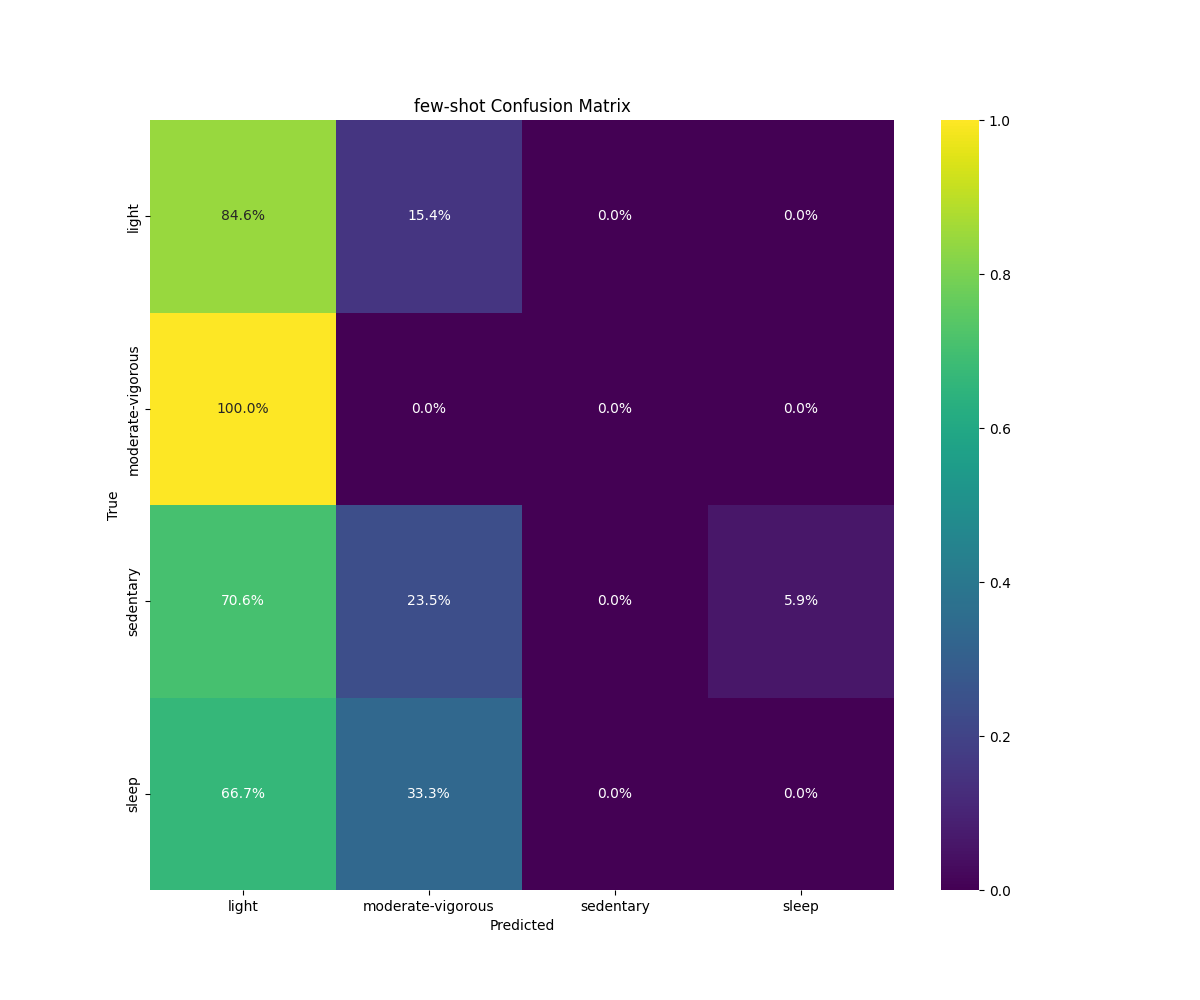
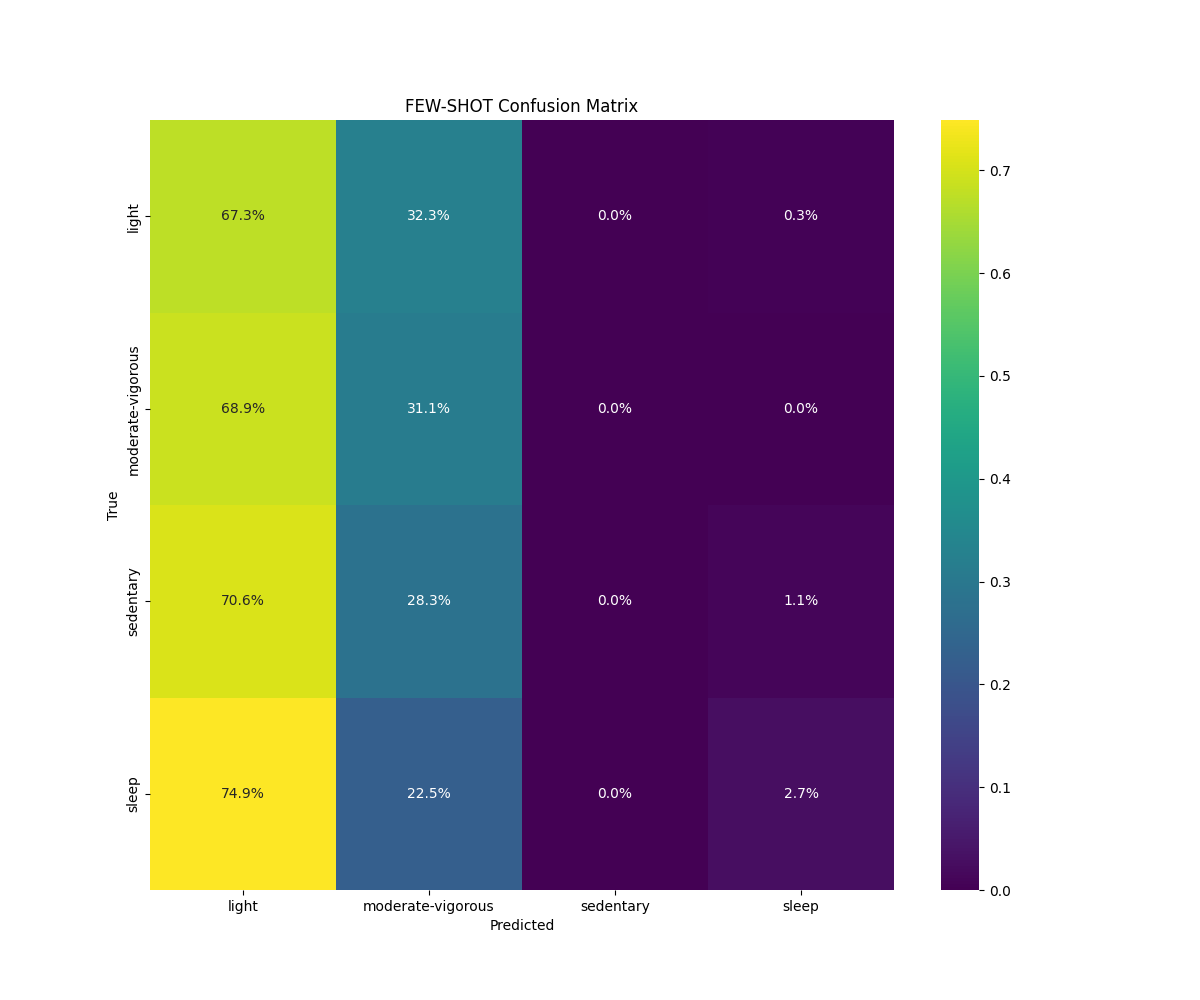
few shot

diff --git a/llm_test.py b/llm_test.py
@@ -35,7 +35,8 @@ model = AutoModelForCausalLM.from_pretrained(model_id, quantization_config=confi
 
 # activities = ["sleep", "sitting", "walking", "bicycling", "mixed-activity", "standing", "manual-work", "sports"]
 
-run_lim = 10000000
+# run_lim = 10000000
+run_lim = 10
 
 
 def test_llm():
@@ -98,8 +99,8 @@ def zero_shot_prompting(x_test, y_test):
         pred_labels.append(r)
         print(f"Actual label: {y_test[i]}, Activity: {y_unencoded[i]}")
 
-        if i == run_lim:
-            break
+        # if i == run_lim:
+        #     break
 
     pred_labels_encoded = remap_labels(pred_labels, "label_to_encode")
 
@@ -230,8 +231,8 @@ def few_shot_prompting(x_train, y_train, x_test, y_test):
         print(r)
         print(f"Actual label: {y_test[i]}, Activity: {y_unencoded[i]}")
 
-        if i == run_lim:
-            break
+        # if i == run_lim:
+        #     break
 
     pred_labels_encoded = remap_labels(pred_labels, "label_to_encode")
 
@@ -246,13 +247,23 @@ def few_shot_prompting(x_train, y_train, x_test, y_test):
     print(f"F1-score: {f1 * 100:.2f}%")
 
     # record results
-    model_type = "Few-shot Prompting"
+    model_type = "FEW-SHOT"
     model_data = [acc, prec, recall, f1]
 
     save_results(model_type, "assess", model_data)
 
-    # create confusion matrix
-    generate_cm(y_test[:len(pred_labels_encoded)], pred_labels_encoded, "few-shot")
+    # Create graphs for analysis
+    generate_cm(y_test[:len(pred_labels_encoded)], pred_labels_encoded, model_type)
+    metric_comparison(model_data, model_type)
+    class_report = classification_report(y_test[:len(pred_labels_encoded)], pred_labels_encoded, target_names=["light", "moderate-vigorous", "sedentary", "sleep"], output_dict=True)
+    class_comparison(class_report, model_type)
+    predict_class_distribution(pred_labels_encoded, model_type)
+
+    # generate_cm(y_test, pred_labels_encoded, model_type)
+    # metric_comparison(model_data, model_type)
+    # class_report = classification_report(y_test, pred_labels_encoded, target_names=["light", "moderate-vigorous", "sedentary", "sleep"], output_dict=True)
+    # class_comparison(class_report, model_type)
+    # predict_class_distribution(pred_labels_encoded, model_type)
 
 def extract_label(response):
     if "Answer:" in response:
@@ -289,6 +300,6 @@ if __name__ == "__main__":
 
     # sample_training_data(x_train, y_train)
 
-    zero_shot_prompting(x_test, y_test)
-    # few_shot_prompting(x_train, y_train, x_test, y_test)
+    # zero_shot_prompting(x_test, y_test)
+    few_shot_prompting(x_train, y_train, x_test, y_test)
 
